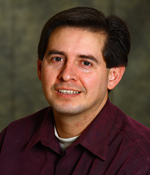
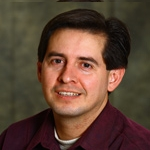
Resizing people images

diff --git a/people.html b/people.html
@@ -82,12 +82,12 @@
                                     <br/><br/>
                                     <hr>
                                     <h2 id="advisory">Faculty Advisory Board</h3>
-                                    <div style="display:inline-block;width:15.4em;height:200px;"><img class="image featured" src="images/people/erin-hestir.jpg" alt="" /><center><h3>Erin Hestir</h3></center></div>
-                                    <div style="display:inline-block;width:15.4em;height:200px;"><img class="image featured" src="images/people/reza-ehsani.jpg" alt="" /><center><h3>Reza Ehsani</h3></center></div>
-                                    <div style="display:inline-block;width:15.4em;height:200px;"><img class="image featured" src="images/people/stefano-carpin.jpg" alt="" /><center><h3>Stefano Carpin</h3></center></div>
-                                    <div style="display:inline-block;width:15.4em;height:200px;"><img class="image featured" src="images/people/yangquan-chen.jpg" alt="" /><center><h3>YangQuan Chen</h3></center></div>
-                                    <div style="display:inline-block;width:15.4em;height:200px;"><img class="image featured"  src="images/people/lisa-yeo.jpg" alt="" /><center><h3>Lisa Yeo</h3></center></div>
-                                    <div style="display:inline-block;width:15.4em;height:200px;"><img class="image featured" src="images/people/rudy-ortiz.jpg" alt="" /><center><h3>Rudy Ortiz</h3></center></div>
+                                    <div style="display:inline-block;width:12.8em;height:200px;"><img class="image featured" src="images/people/erin-hestir.jpg" alt="" /><center><h3>Erin Hestir</h3></center></div>
+                                    <div style="display:inline-block;width:12.8em;height:200px;"><img class="image featured" src="images/people/reza-ehsani.jpg" alt="" /><center><h3>Reza Ehsani</h3></center></div>
+                                    <div style="display:inline-block;width:12.8em;height:200px;"><img class="image featured" src="images/people/stefano-carpin.jpg" alt="" /><center><h3>Stefano Carpin</h3></center></div>
+                                    <div style="display:inline-block;width:12.8em;height:200px;"><img class="image featured" src="images/people/yangquan-chen.jpg" alt="" /><center><h3>YangQuan Chen</h3></center></div>
+                                    <div style="display:inline-block;width:12.8em;height:200px;"><img class="image featured"  src="images/people/lisa-yeo.jpg" alt="" /><center><h3>Lisa Yeo</h3></center></div>
+                                    <div style="display:inline-block;width:12.8em;height:200px;"><img class="image featured" src="images/people/rudy-ortiz.jpg" alt="" /><center><h3>Rudy Ortiz</h3></center></div>
                                     
                                     <br/><br/>
                                     <hr>
